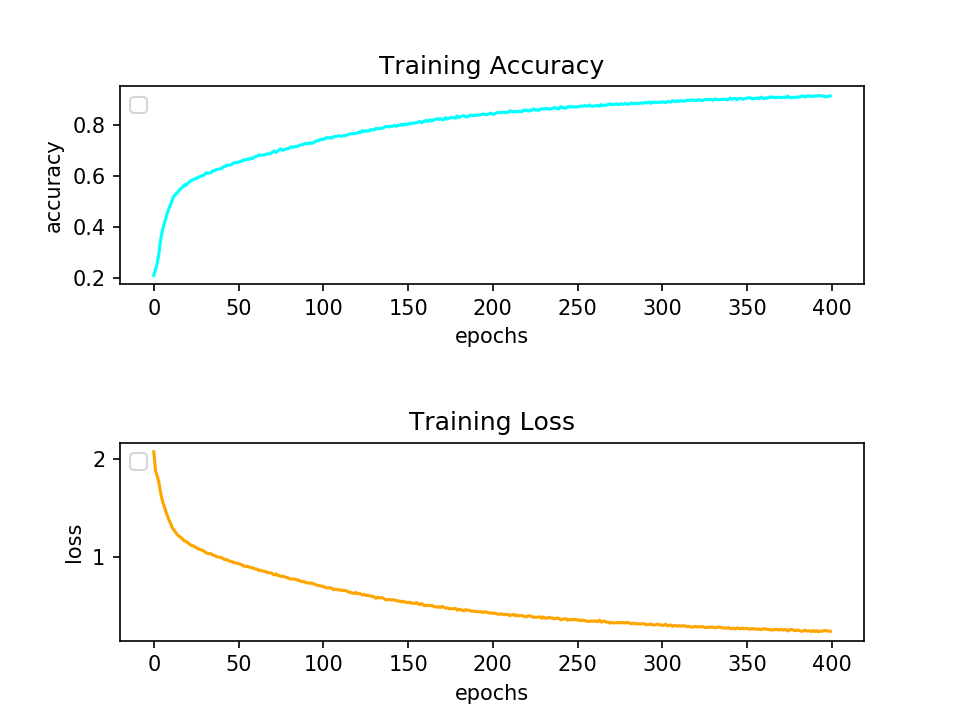
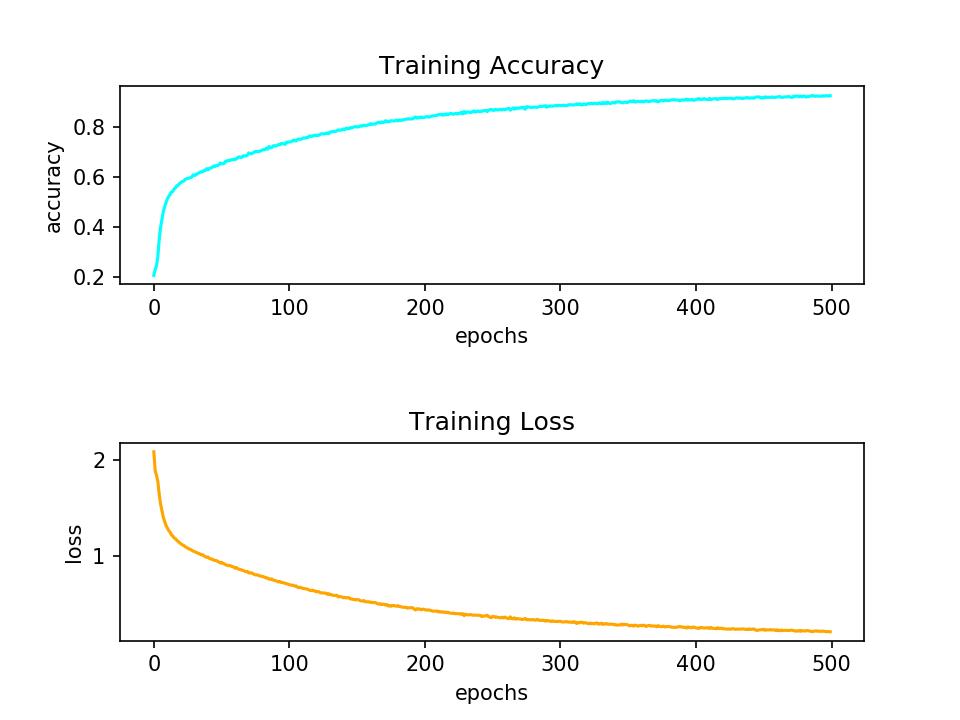
THIS IS THE MODEL I'm GOING TO SUBMIT

diff --git a/hw3/Reproduce/Best/train.py b/hw3/Reproduce/Best/train.py
@@ -2,7 +2,6 @@ import sys, os
 import numpy as np
 import pandas as pd
 import pickle 
-np.random.seed(50756711264384381850616619995309447969109689825336919605444730053665222018857 % (2 ** 32))
 
 from keras.models import Sequential
 from keras.preprocessing.image import ImageDataGenerator
@@ -11,6 +10,7 @@ from keras.layers import Conv2D, MaxPooling2D, ReLU, LeakyReLU, BatchNormalizati
 from keras.losses import categorical_crossentropy
 from keras.regularizers import l2
 from keras.optimizers import Adam
+from tensorflow import set_random_seed
 
 def ReadTrainingData(path):
     df = pd.read_csv(path)
@@ -23,7 +23,10 @@ def ReadTrainingData(path):
 
 if __name__ == "__main__":
     lucky_num = 50756711264384381850616619995309447969109689825336919605444730053665222018857 % (2 ** 32)
-    #  os.environ["CUDA_VISIBLE_DEVICES"] = "2"
+    np.random.seed(lucky_num)
+    set_random_seed(lucky_num)
+
+    os.environ["CUDA_VISIBLE_DEVICES"] = "0"
 
     trainCSV = sys.argv[1]
     modelH5 = sys.argv[2]
@@ -34,10 +37,10 @@ if __name__ == "__main__":
     model = Sequential()
     model.add(Conv2D(filters = 128, kernel_size = (5, 5), input_shape = (48, 48, 1), padding='same'))
     model.add(Conv2D(filters = 128, kernel_size = (5, 5), padding='same'))
-    model.add(GaussianNoise(0.1))
     model.add(BatchNormalization())
     model.add(MaxPooling2D(pool_size = (2, 2)))
     model.add(LeakyReLU(alpha = 0.3))
+    model.add(Dropout(0.1))
 
     model.add(Conv2D(filters = 256, kernel_size = (5, 5), padding='same'))
     model.add(Conv2D(filters = 256, kernel_size = (5, 5), padding='same'))
@@ -63,25 +66,21 @@ if __name__ == "__main__":
     model.add(Flatten())
 
     model.add(Dense(1024))
-    #  model.add(Dense(1024, kernel_regularizer = l2(1e-4)))
     model.add(BatchNormalization())
     model.add(ReLU())
     model.add(Dropout(0.5))
 
     model.add(Dense(1024))
-    #  model.add(Dense(1024, kernel_regularizer = l2(1e-4)))
     model.add(BatchNormalization())
     model.add(ReLU())
     model.add(Dropout(0.5))
 
     model.add(Dense(512))
-    #  model.add(Dense(512, kernel_regularizer = l2(1e-4)))
     model.add(BatchNormalization())
     model.add(ReLU())
     model.add(Dropout(0.5))
 
     model.add(Dense(512))
-    #  model.add(Dense(512, kernel_regularizer = l2(1e-4)))
     model.add(BatchNormalization())
     model.add(ReLU())
     model.add(Dropout(0.5))
@@ -91,13 +90,12 @@ if __name__ == "__main__":
     model.compile(loss=categorical_crossentropy, optimizer=Adam(), metrics=['accuracy'])
             
     datagen = ImageDataGenerator(rotation_range = 20, width_shift_range=0.05, height_shift_range=0.05, horizontal_flip=True, validation_split = 0.1)
-    datagen.fit(X)
-    #  datagen.fit(X, seed = lucky_num)
+    datagen.fit(X, seed = lucky_num)
     trainGenerator = datagen.flow(X, Y, batch_size = 128, subset = "training")
     validGenerator = datagen.flow(X, Y, batch_size = 128, subset = "validation")
     trainNum, validNum = len(trainGenerator), len(validGenerator)
 
-    history = model.fit_generator(trainGenerator, steps_per_epoch = trainNum, validation_data = validGenerator, validation_steps = validNum, epochs = 400)
+    history = model.fit_generator(trainGenerator, steps_per_epoch = trainNum, validation_data = validGenerator, validation_steps = validNum, epochs = 500)
 
     model.save(modelH5)
     with open(historyPkl, 'wb') as f:

diff --git a/hw3/Reproduce/Best/summary.py b/hw3/Reproduce/Best/summary.py
@@ -7,7 +7,9 @@ import matplotlib.pyplot as plt
 
 if __name__ == "__main__":
     lucky_num = 50756711264384381850616619995309447969109689825336919605444730053665222018857 % (2 ** 32)
-    #  os.environ["CUDA_VISIBLE_DEVICES"] = "2"
+
+    os.environ["CUDA_VISIBLE_DEVICES"] = "3"
+    plt.switch_backend('agg')
 
     modelH5    = sys.argv[1]
     summaryTxt = sys.argv[2]

diff --git a/hw3/Reproduce/Best/test.py b/hw3/Reproduce/Best/test.py
@@ -14,6 +14,8 @@ def ReadTestingData(path):
 if __name__ == "__main__":
     lucky_num = 50756711264384381850616619995309447969109689825336919605444730053665222018857 % (2 ** 32)
 
+    os.environ["CUDA_VISIBLE_DEVICES"] = "3"
+
     testCSV = sys.argv[1]
     outputCSV = sys.argv[2]
     modelH5 = sys.argv[3]
